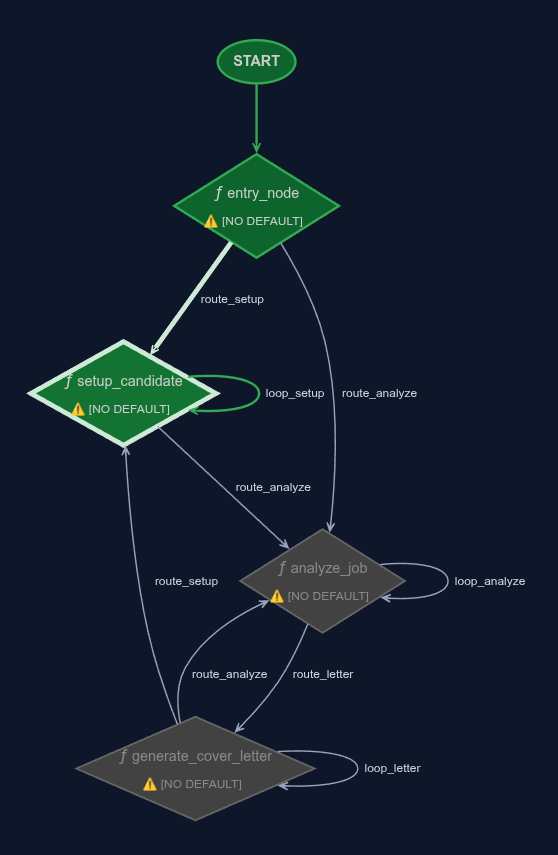
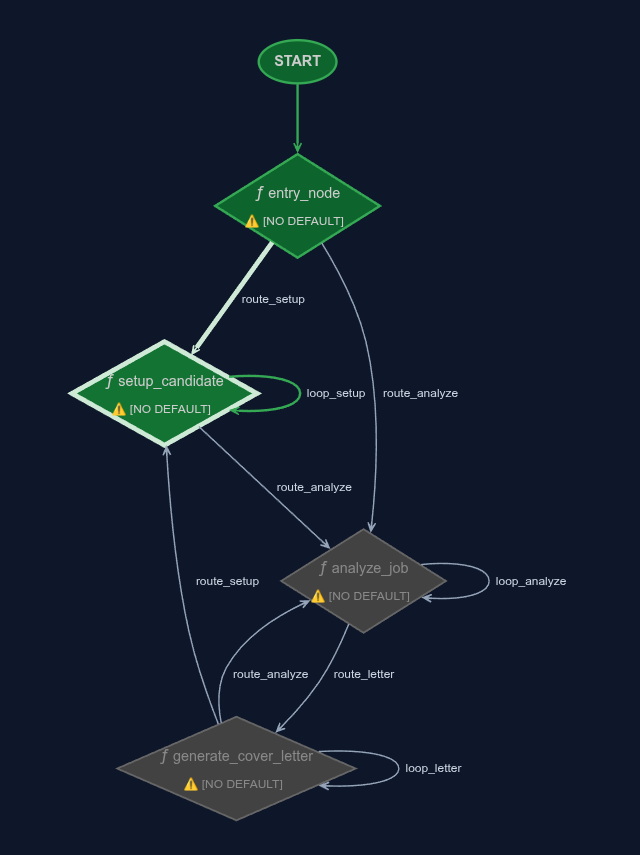
Writeup updates.

diff --git a/docs/video-script.md b/docs/video-script.md
@@ -12,11 +12,11 @@
 
 ## Section 1: Problem Statement (0:00 - 0:45)
 
-[SCREEN: Slide or plain text — "The problem with job searching"]  
+[SCREEN: Slide or plain text — "The problem with job searching"]
 
-"Searching for a senior engineering role means doing real research before writing a single word. You need to understand what the company actually builds, whether your background maps to their requirements, which of your projects is most relevant as evidence, and how to frame any gaps honestly.  
+"Writing a cover letter for a senior engineering role means doing real research before writing a single word. You need to understand what the company actually builds, whether your background maps to their requirements, which of your projects is most relevant as evidence, and how to frame any gaps honestly.
 
-Most AI tools skip all of this. They produce fluent text that could have been written for any candidate applying to any job. The output sounds good and says nothing specific.  
+It's difficult if not impossible to do all of this using prompts alone. They produce fluent text that could have been written for any candidate applying to any job. The output sounds good and says nothing specific.
 
 The fix isn't better writing — it's better reasoning before writing. And that's exactly what an ADK Workflow pipeline can do."
 
@@ -24,47 +24,59 @@ The fix isn't better writing — it's better reasoning before writing. And that'
 
 ## Section 2: Why Agents & Workflows (0:45 – 1:30)
 
-[SCREEN: Architecture diagram showing AgentState and the Workflow Nodes]  
+[SCREEN: Architecture diagram showing AgentState and the Workflow Nodes]
 
-"I built JobAgent using Google ADK 2.0. The pipeline centers on a directed Workflow graph that manages a strict agent state.  
+"I built JobApplicationAgent using Google ADK 2.0. The pipeline centers on a directed Workflow graph that manages a strict agent state.
 
-The state flows through specific nodes: Candidate Setup, Job Analysis, and Letter Generation. The setup node uses Gemini's multimodal API to read your resume PDF directly. The job analyzer turns a posting URL into structured data and uses Google Search Grounding to research the company. The fit scorer assesses your candidacy across five dimensions to generate a strategy. And the cover letter node uses that strategy to write something actually tailored to you."
+The state flows through specific, skill-aware nodes: Setup Candidate, Analyze Job, and Generate Cover Letter. The setup node uses Gemini's multimodal API to read your resume PDF directly. The job analyzer turns a posting URL into structured data and uses Google Search Grounding to research the company. The fit scorer assesses your candidacy across five dimensions to generate a strategy. And the cover letter node uses that strategy to write something actually tailored to you.
+
+The state is shared between the nodes in the AgentState defined as a Pydantic model"
 
 ---
 
 ## Section 3: Antigravity & ADK (1:30 – 2:00)
 
-[SCREEN: IDE with app/agent.py and app/models.py Pydantic models visible]  
+[SCREEN: IDE with app/agent.py, app/models.py, .agents/skills/extract-resume/SKILLS.md visible]
 
-"I built this using ADK. Here you can see the Workflow definition and its routing logic. Notice how we use strict Pydantic schemas for the data contracts. When a node finishes an LLM call, it returns a strongly typed, validated model back to the agent's AgentState memory, preventing LLM hallucinations.  
+"I built this using ADK. Here you can see the Workflow definition and its routing logic. Notice how we use strict Pydantic schemas for the data contracts. When a node finishes an LLM call, it returns a strongly typed, validated model back to the agent's AgentState memory, preventing LLM hallucinations.
 
-By separating the workflow into distinct nodes, we can deterministically route the user using explicit phrases like 'job postings' or 'update profile'."  
+By separating the workflow into distinct nodes, we can deterministically route the user using explicit phrases like 'job postings' or 'update profile'.
+
+Agent skills used by the agent nodes are defined in plain language markdown files, similar to prompts, but very focused on getting a task done.  This skill runs an included python script to retrieve a list of GitHub repos for the user."
 
 ---
 
 ## Section 4: Live Demo — Single Job (2:00 – 3:30)
 
-[SCREEN: Terminal running 'docker compose up' then transitioning to the React web UI]  
+[SCREEN: Terminal running 'docker compose up' then transitioning to the React web UI]
 
-"Let me show it running. The entire application—both the Python ADK backend and Next.js frontend—spins up in a single command using Docker Compose. Once it's ready, we open the web interface in the browser. First, the agent asks for my resume. I'll upload a PDF.  
+"Let me show it running. The entire application—both the Python ADK backend and Next.js frontend—spins up in a single command using Docker Compose. Once it's ready, the web interface is available in the browser. To speed things along, I've already loaded my resume.  Here's the PDF."
 
-[SCREEN: Upload PDF in web UI]  
+[SCRREN: Show Resume in PDF Veiwer for a few seconds]
 
-"The setup node uses pypdf to extract my GitHub links from the file's annotations, then passes the binary to Gemini to build a candidate profile. Now, I'll paste in a job posting for a Backend role."  
+[SCREEN: Show 'Profile' in web UI]
 
-[SCREEN: Paste job posting URL or text]  
+"The setup node used pypdf to extract my GitHub links from the file's annotations, then passed the binary to Gemini to build a candidate profile along with the other details extracted from the resume. Additional items, like new certifications, can be added at this point.
 
-"The Analyze Job node fetches the posting. If the company is unknown, it triggers a live Google Search Grounding fallback to grab recent news and context.  
+Now, I'll paste in a job posting for a Senior Software Developer role."
 
-[SCREEN: Fit score output with dimension breakdown]  
+[SCREEN: Paste job posting URL or text]
 
-Now I see the fit score. Technical skills scored 88, experience level 85, seniority 90. Overall score: 82, which the system labels a Strong match. The scorer also generated a strategic gap narrative.  
+"The Analyze Job node fetches the posting. If the company is unknown, it triggers a live Google Search Grounding fallback to grab recent news and context.
 
-[SCREEN: Cover letter appearing]  
+[SCREEN: Fit score output with dimension breakdown]
 
-The Generate Cover Letter node takes over. Notice the opening — it connects my background directly to what this company builds. It even outputs an evidence audit, counting the words and noting which projects it cited.  
+"Now I see the fit score. Technical skills scored 88, experience level 85, seniority 90. Overall score: 82, which the system labels a Strong match. The scorer also generated a strategic gap narrative. You can update items."
 
-[SCREEN: Refinement turn]  
+[SCREEN: User types: 'I have used Angular.']
+
+"The fit score is updated to reflect the new skill.  Let's generate a cover letter."
+
+[SCREEN: User types 'cover letter'.  Cover letter appears]
+
+The Generate Cover Letter node takes over. Notice the opening — it connects my background directly to what this company builds. It even outputs an evidence audit, counting the words and noting which projects it cited.
+
+[SCREEN: Refinement turn]
 
 Now watch what happens when I say 'make the tone less formal'. The workflow loops back into the letter node, incrementing the draft count and editing the text while preserving the evidence."
 
@@ -72,17 +84,17 @@ Now watch what happens when I say 'make the tone less formal'. The workflow loop
 
 ## Section 5: Batching & Session Isolation (3:30 – 4:15)
 
-[SCREEN: Workflow handling multiple jobs]  
+[SCREEN: Workflow handling multiple jobs]
 
-"When I want to look at another job, I just type 'job postings'. The workflow routes me back to the analyzer.  
+"When I want to look at another job, I just type 'job postings'. The workflow routes me back to the analyzer.
 
-Behind the scenes, the agent's state tracks a job_index. This isolates each job session to prevent cache collisions in the UI. I can evaluate multiple jobs against the same stored candidate profile, producing genuinely different strategic angles and letters without having to re-upload my resume."  
+Behind the scenes, the agent's state tracks a job_index. This isolates each job session to prevent cache collisions in the UI. I can evaluate multiple jobs against the same stored candidate profile, producing genuinely different strategic angles and letters without having to re-upload my resume."
 
 ---
 
 ## Section 6: Close (4:15 – 4:30)
 
-[SCREEN: GitHub repo README]  
+[SCREEN: GitHub repo README]
 
 "The full code is at https://github.com/SteveTarter/job-application-agent. The README covers local setup, the multi-agent architecture, and how to run the entire stack with Docker Compose.
 

diff --git a/docs/kaggle-writeup.md b/docs/kaggle-writeup.md
@@ -8,7 +8,7 @@
 
 ## Subtitle
 
-From job posting text to evidence-backed cover letter PDF in seconds, using ADK 2.0 Workflows, multimodal PDF processing, and a five-dimension fit scorer.
+From job posts to evidence-backed cover letters in seconds using ADK 2.0 Workflows, multimodal PDF parsing, and a 5-dimension fit scorer.
 
 ---
 